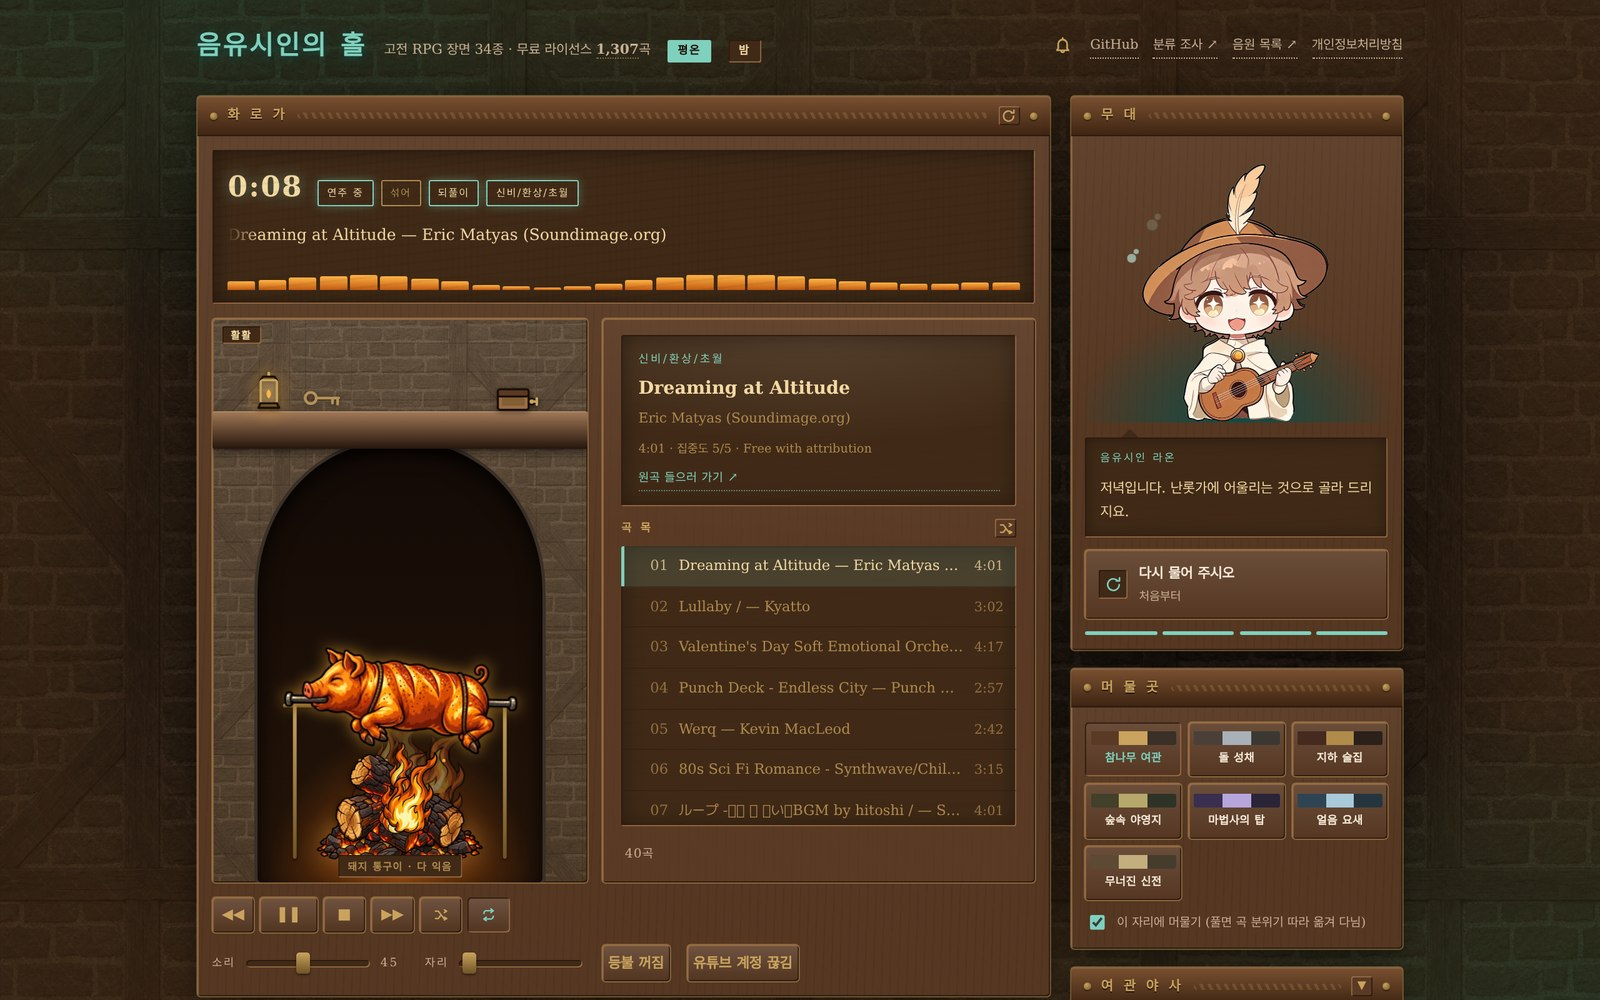
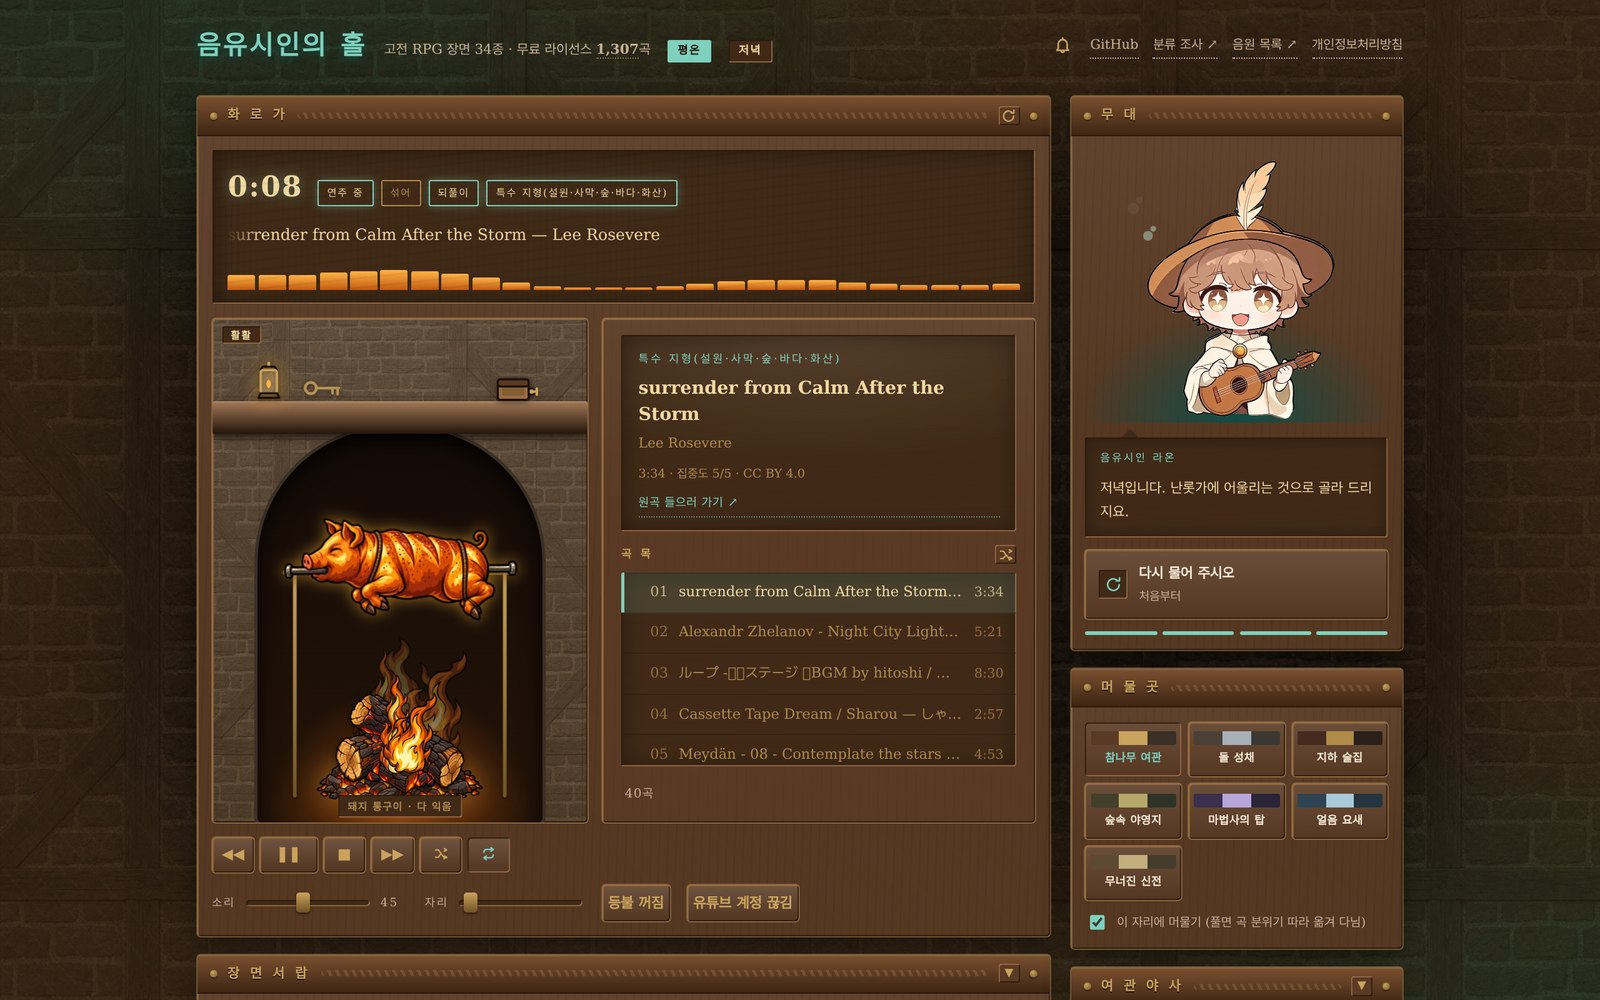
Lift the roast clear of the flames
The food read as sitting in the fire, and measurement agreed: the tallest
flame reaches 48% of the firebox — 51% mid-flicker — while the crossbar
sat at 44%. Anything on the bar was inside the fire.

The bar rises to 62%, which is what the tall hearth's headroom was for:
the pig now turns above the flame tips instead of inside them, the
cauldron hangs in the rising heat, and the hearth itself comes down from
1:1.5 to 1:1.34 since the empty arch above the food no longer needs to be
that deep. The --spit-y comment now records the constraint so the next
resize keeps the bar above the fire.

Promo shot retaken to match; its script also pins the phase chip to 저녁,
which used to show the machine's real time of day next to a bard saying
it was evening.

diff --git a/assets/css/tavern.css b/assets/css/tavern.css
@@ -293,8 +293,9 @@ body::after {
 
 .hearth {
   position: relative;
-  /* 세로로 길다. 불을 바라보라고 있는 자리라 정사각으로는 갑갑하다. */
-  aspect-ratio: 1 / 1.5;
+  /* 세로로 길다. 불을 바라보라고 있는 자리라 정사각으로는 갑갑하다.
+     다만 너무 길면 위쪽이 빈 아치만 된다 — 그 높이는 걸이대를 올려서 쓴다. */
+  aspect-ratio: 1 / 1.34;
   container-type: size;   /* .firebox 가 cqw/cqh 로 이 칸을 잰다 */
   border-radius: 3px;
   display: grid;
@@ -1149,8 +1150,11 @@ input[type="range"]:focus-visible { outline: 2px solid var(--accent); outline-of
 }
 
 /* 꼬치걸이대 — 두 다리 위에 가로대 하나. 음식은 이 가로대에 얹힌다.
-   가로대 높이가 곧 .roast 상자의 바닥이라, 둘을 같은 값(--spit-y)으로 묶어 둔다. */
-.firebox { --spit-y: 44%; }
+   가로대 높이가 곧 .roast 상자의 바닥이라, 둘을 같은 값(--spit-y)으로 묶어 둔다.
+   이 값은 **불꽃 끝보다 높아야 한다.** 44% 였을 때는 가장 큰 불꽃이 48% 까지
+   솟아서 음식이 불에 파묻혀 보였다. 불꽃은 흔들릴 때 51% 쯤까지 가므로
+   그보다 여유를 두고 잡는다 — 화로가 세로로 긴 덕에 남는 높이가 여기 쓰인다. */
+.firebox { --spit-y: 62%; }
 
 .spit {
   position: absolute;
